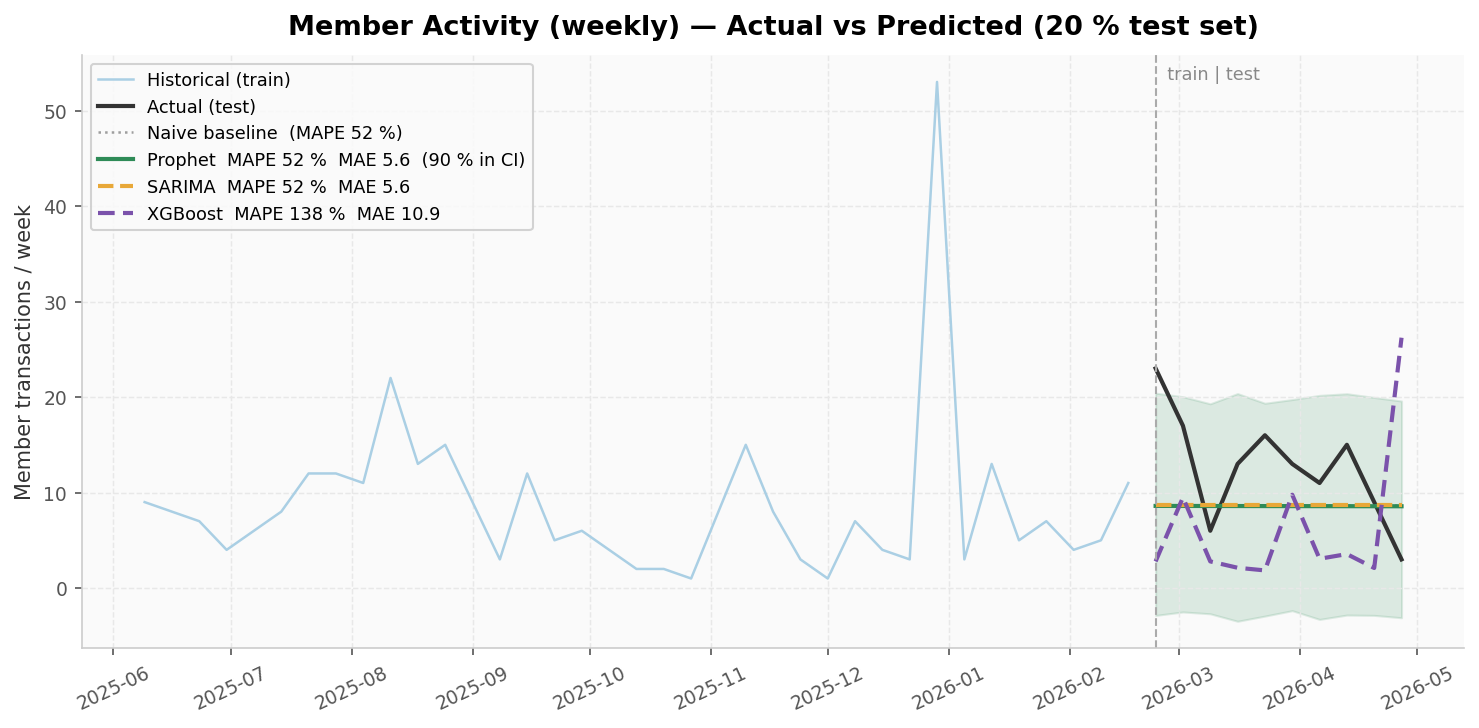
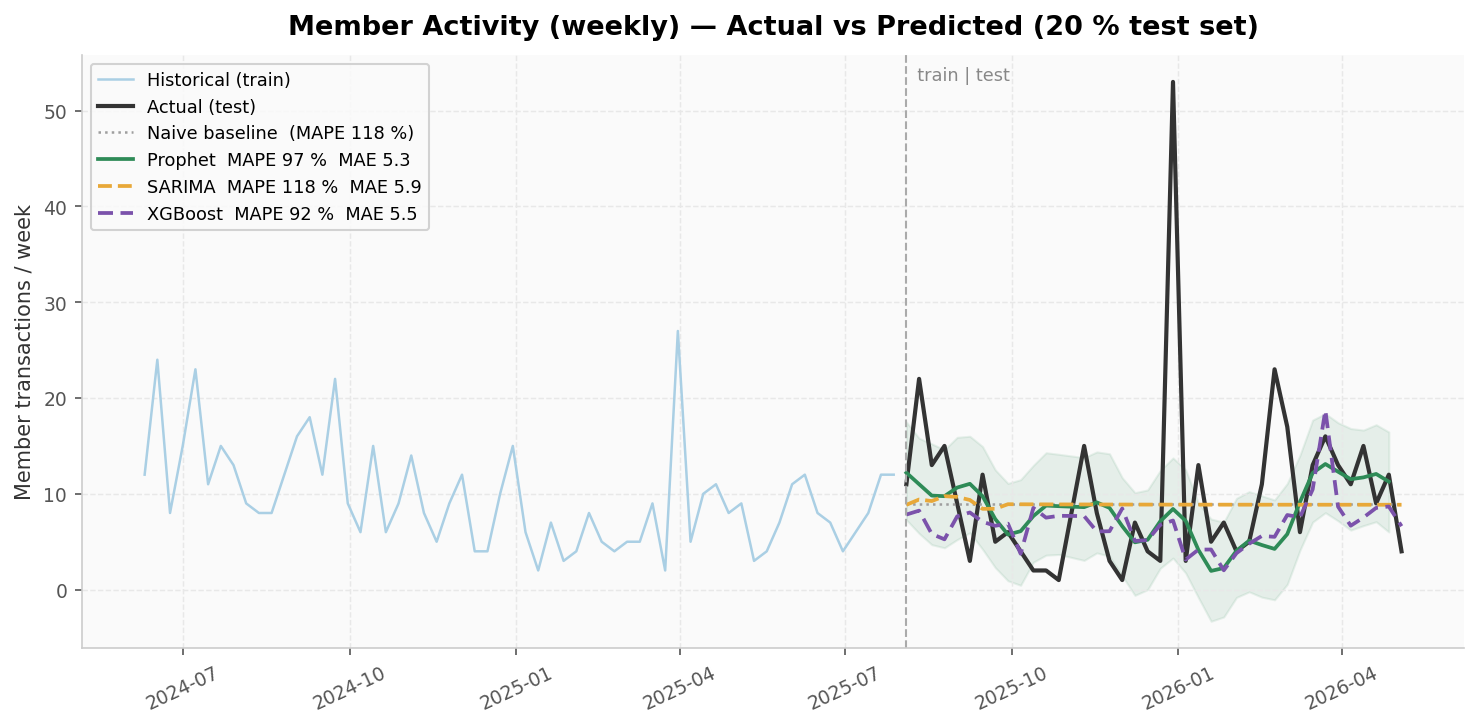
feat: regenerate combined accuracy charts at weekly+log resolution
The combined per-series accuracy PNGs (accuracy_revenue.png, _members.png,
_session_volume.png) were stale outputs from the old daily-resolution
pipeline showing wMAPE 60-83%. They're now regenerated via a new
_plot_combined_models_accuracy() helper that overlays Prophet/SARIMA/XGBoost
on a single chart at the current weekly+log evaluation methodology, matching
the per-model charts. Old sarima_comparison.png also removed from disk
(was never tracked; superseded by model_comparison_bar.png).

diff --git a/gamefydb/figures.py b/gamefydb/figures.py
@@ -270,6 +270,59 @@ def _compute_all_predictions(tx: pd.DataFrame, split: float = 0.8) -> dict:
     return {'revenue': rev, 'sessions': ses, 'members': mem_r}
 
 
+def _plot_combined_models_accuracy(train, test, models, title, ylabel, out_path,
+                                    shade_ramadan=False):
+    """All-models-on-one-chart accuracy plot.
+
+    models: list of dicts, each with keys
+        name, color, linestyle, pred_ds, pred_actual, pred_values,
+        (optional) yhat_lower, yhat_upper
+    """
+    fig, ax = plt.subplots(figsize=(FIG_W, 5))
+
+    show_train = train.iloc[-60:] if len(train) > 60 else train
+    ax.plot(show_train['ds'], show_train['y'],
+            color='#AACFE4', linewidth=1.2, label='Historical (train)')
+
+    ax.plot(test['ds'], test['y'],
+            color='#333333', linewidth=2, label='Actual (test)')
+
+    naive = _naive_baseline(train, test)
+    ax.plot(test['ds'], naive,
+            color=C_NAIVE, linewidth=1.2, linestyle=':',
+            label=f'Naive baseline  (MAPE {_mape(test["y"].values, naive):.0f} %)')
+
+    for m in models:
+        if m.get('yhat_lower') is not None and m.get('yhat_upper') is not None:
+            ax.fill_between(m['pred_ds'], m['yhat_lower'], m['yhat_upper'],
+                            alpha=0.10, color=m['color'])
+        mae_v  = _mae(m['pred_actual'], m['pred_values'])
+        mape_v = _mape(m['pred_actual'], m['pred_values'])
+        ax.plot(m['pred_ds'], m['pred_values'],
+                color=m['color'], linewidth=1.8, linestyle=m['linestyle'],
+                label=f"{m['name']}  MAPE {mape_v:.0f} %  MAE {mae_v:.1f}")
+
+    ylim_top = ax.get_ylim()[1]
+    split_date = test['ds'].iloc[0]
+    ax.axvline(split_date, color='#AAAAAA', linestyle='--', linewidth=1)
+    ax.text(split_date, ylim_top * 0.98, '  train | test',
+            fontsize=8.5, color='#888888', va='top')
+
+    if shade_ramadan:
+        r_start = pd.Timestamp('2026-02-18')
+        r_end   = pd.Timestamp('2026-03-19')
+        ax.axvspan(r_start, r_end, alpha=0.07, color='#9B59B6', zorder=0)
+        ax.text(r_start, ylim_top * 0.90, ' Ramadan\n 2026',
+                fontsize=8, color='#9B59B6', va='top')
+
+    ax.set_title(title)
+    ax.set_ylabel(ylabel)
+    ax.legend(fontsize=8.5, loc='upper left')
+    ax.tick_params(axis='x', rotation=25)
+    plt.tight_layout()
+    _save(fig, out_path)
+
+
 def _plot_single_model_accuracy(train, test, model_name, color, linestyle,
                                 pred_ds, pred_actual, pred_values,
                                 yhat_lower=None, yhat_upper=None,
@@ -358,6 +411,29 @@ def plot_accuracy_revenue(out_dir: str, preds: dict, split: float = 0.8) -> None
             title=f'{base} — XGBoost',
             out_path=os.path.join(out_dir, 'accuracy_revenue_xgboost.png'), **kw)
 
+    models = []
+    if not p_merged.empty:
+        models.append(dict(name='Prophet', color=C_PRED, linestyle='-',
+                           pred_ds=p_merged['ds'].values,
+                           pred_actual=p_merged['y'].values,
+                           pred_values=p_merged['yhat'].values,
+                           yhat_lower=p_merged['yhat_lower'].values,
+                           yhat_upper=p_merged['yhat_upper'].values))
+    if s_preds is not None:
+        models.append(dict(name='SARIMA', color=C_SARIMA, linestyle='--',
+                           pred_ds=s_test['ds'].values,
+                           pred_actual=s_test['y'].values,
+                           pred_values=s_preds))
+    if x_preds is not None:
+        models.append(dict(name='XGBoost', color=C_XGB, linestyle=(0, (4, 2)),
+                           pred_ds=x_test['ds'].values,
+                           pred_actual=x_test['y'].values,
+                           pred_values=x_preds))
+    if models:
+        _plot_combined_models_accuracy(
+            train, test, models, title=base,
+            out_path=os.path.join(out_dir, 'accuracy_revenue.png'), **kw)
+
 
 def plot_accuracy_session_volume(out_dir: str, preds: dict, split: float = 0.8) -> None:
     train, test     = preds['train'], preds['test']
@@ -394,6 +470,29 @@ def plot_accuracy_session_volume(out_dir: str, preds: dict, split: float = 0.8) 
             title=f'{base} — XGBoost',
             out_path=os.path.join(out_dir, 'accuracy_session_volume_xgboost.png'), **kw)
 
+    models = []
+    if not p_merged.empty:
+        models.append(dict(name='Prophet', color=C_PRED, linestyle='-',
+                           pred_ds=p_merged['ds'].values,
+                           pred_actual=p_merged['y'].values,
+                           pred_values=p_merged['yhat'].values,
+                           yhat_lower=p_merged['yhat_lower'].values,
+                           yhat_upper=p_merged['yhat_upper'].values))
+    if s_preds is not None:
+        models.append(dict(name='SARIMA', color=C_SARIMA, linestyle='--',
+                           pred_ds=s_test['ds'].values,
+                           pred_actual=s_test['y'].values,
+                           pred_values=s_preds))
+    if x_preds is not None:
+        models.append(dict(name='XGBoost', color=C_XGB, linestyle=(0, (4, 2)),
+                           pred_ds=x_test['ds'].values,
+                           pred_actual=x_test['y'].values,
+                           pred_values=x_preds))
+    if models:
+        _plot_combined_models_accuracy(
+            train, test, models, title=base,
+            out_path=os.path.join(out_dir, 'accuracy_session_volume.png'), **kw)
+
 
 def plot_accuracy_members(out_dir: str, preds: dict, split: float = 0.8) -> None:
     train, test     = preds['train'], preds['test']
@@ -429,6 +528,29 @@ def plot_accuracy_members(out_dir: str, preds: dict, split: float = 0.8) -> None
             pred_values=x_preds,
             title=f'{base} — XGBoost',
             out_path=os.path.join(out_dir, 'accuracy_members_xgboost.png'), **kw)
+
+    models = []
+    if not p_merged.empty:
+        models.append(dict(name='Prophet', color=C_PRED, linestyle='-',
+                           pred_ds=p_merged['ds'].values,
+                           pred_actual=p_merged['y'].values,
+                           pred_values=p_merged['yhat'].values,
+                           yhat_lower=p_merged['yhat_lower'].values,
+                           yhat_upper=p_merged['yhat_upper'].values))
+    if s_preds is not None:
+        models.append(dict(name='SARIMA', color=C_SARIMA, linestyle='--',
+                           pred_ds=s_test['ds'].values,
+                           pred_actual=s_test['y'].values,
+                           pred_values=s_preds))
+    if x_preds is not None:
+        models.append(dict(name='XGBoost', color=C_XGB, linestyle=(0, (4, 2)),
+                           pred_ds=x_test['ds'].values,
+                           pred_actual=x_test['y'].values,
+                           pred_values=x_preds))
+    if models:
+        _plot_combined_models_accuracy(
+            train, test, models, title=base,
+            out_path=os.path.join(out_dir, 'accuracy_members.png'), **kw)
 
 
 # ── 4. Model comparison grouped bar ───────────────────────────────────────────
